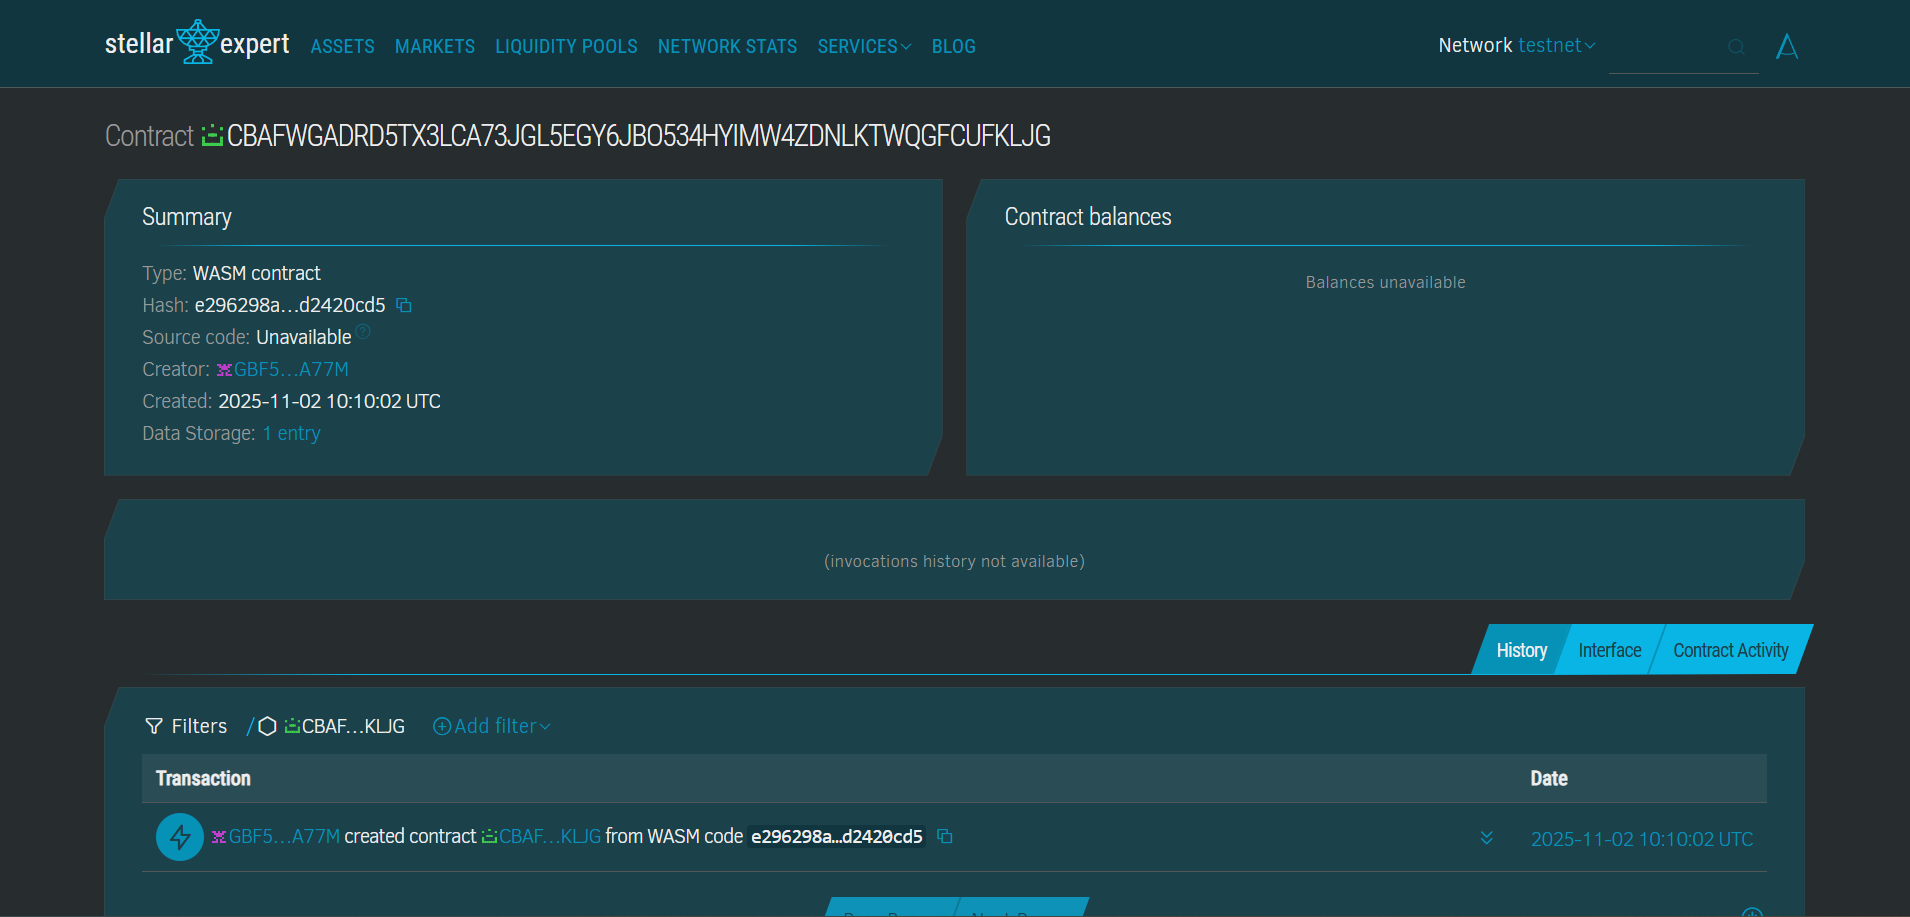
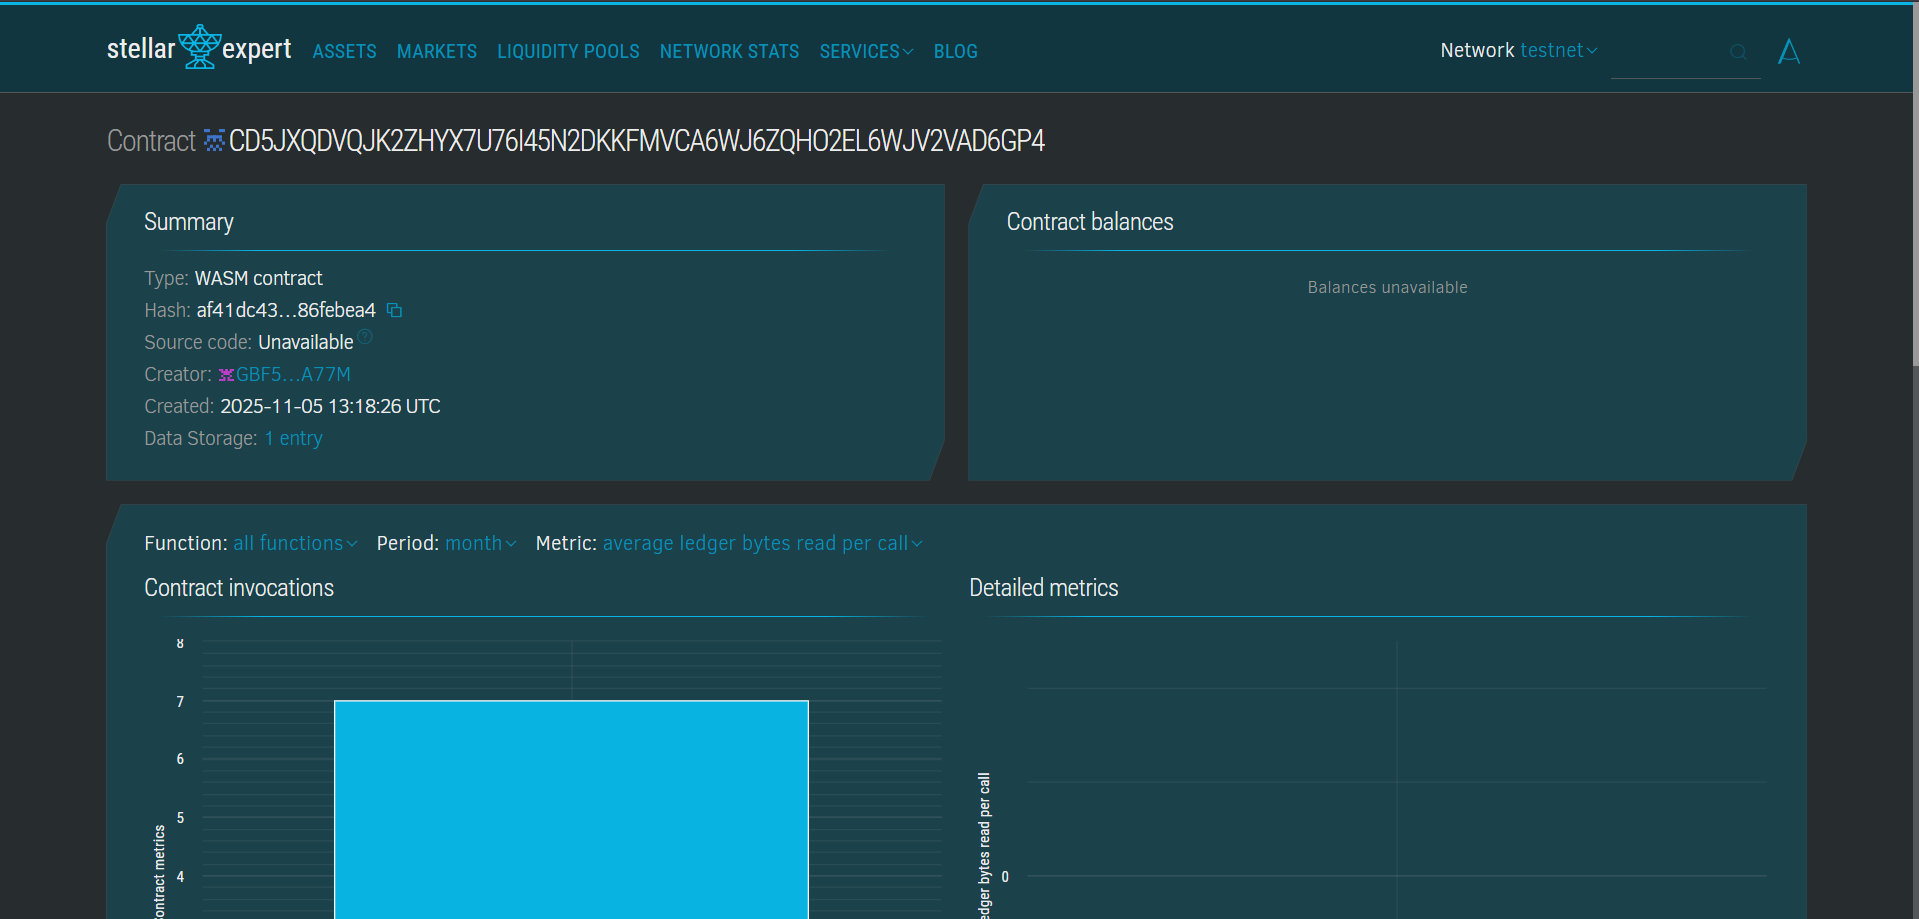
Changed Readme

diff --git a/README.md b/README.md
@@ -93,7 +93,7 @@ Bidders can submit and reveal bids using wallet-connected frontends.
 
 # Contract Details
 
-- Contract ID: CAZHUQLGIASLSB6YLVTLSMVLL4624DVEYVRUMNTB42K74TWTWR5FSMRY
+- Contract ID: CD5JXQDVQJK2ZHYX7U76I45N2DKKFMVCA6WJ6ZQHO2EL6WJV2VAD6GP4
 - Network: Testnet
 - Language: Rust (Soroban)
 
